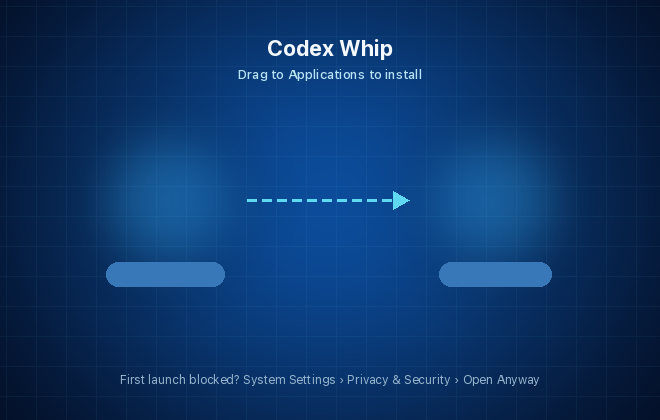
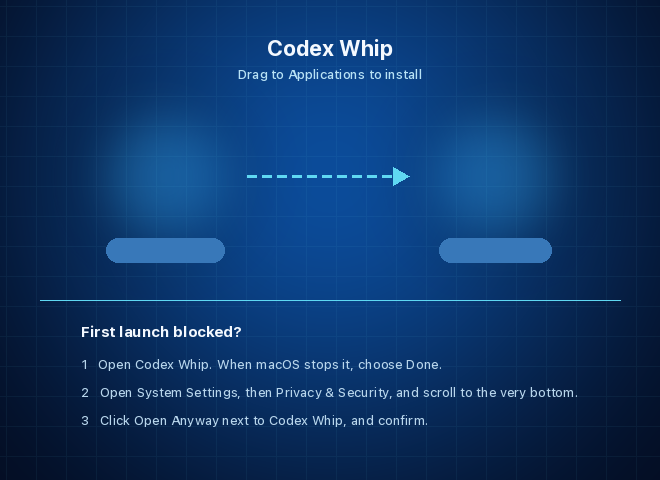
Whip Sound and Automatic Updates start on, opening the app cracks the whip, and the installer spells out the three first-launch steps, as version 1.10.2

diff --git a/native/App.swift b/native/App.swift
@@ -567,6 +567,8 @@ private final class AppDelegate: NSObject, NSApplicationDelegate, NSMenuDelegate
         do {
             let defaults = try PreferencesStore.bundledDefaults()
             let store = try PreferencesStore(directory: helper.stateDirectory, defaults: defaults)
+            // Opening the app cracks the whip once when Whip Sound is on; quitting stays silent.
+            if !isolated, (try? store.read())?.soundEnabled == true { playLaunchCrack() }
             let preferences = PreferencesMenuController(store: store)
             preferences.onChange = { [weak self] in
                 self?.updateMenu()
@@ -596,6 +598,14 @@ private final class AppDelegate: NSObject, NSApplicationDelegate, NSMenuDelegate
         statusItem.button?.image = MenuBarIcon.whip(accessibilityDescription: appName)
         statusItem.button?.setAccessibilityLabel(appName)
         statusItem.menu = menu
+    }
+
+    private var launchCrack: NSSound?
+
+    private func playLaunchCrack() {
+        guard let url = Bundle.main.url(forResource: "Whip", withExtension: "wav") else { return }
+        launchCrack = NSSound(contentsOf: url, byReference: true)
+        launchCrack?.play()
     }
 
     @discardableResult

diff --git a/scripts/make_dmg_background.py b/scripts/make_dmg_background.py
@@ -1,8 +1,8 @@
 #!/usr/bin/env python3
 """Draw the installer window's background in the film's blueprint look, at 1x and 2x.
 
-The disk image opens to a 660 by 420 point window: the app on the left, Applications on the right,
-an arrow between them and the first-launch step at the bottom. Finder draws icon labels white in dark
+The disk image opens to a 660 by 480 point window: the app on the left, Applications on the right
+and an arrow between them, then the three first-launch steps people take themselves. Finder draws icon labels white in dark
 mode and black in light mode, so each label sits on a chip whose luminance gives both at least 4.5:1.
 The positions here must match ICONS in scripts/build_app.py. Needs Pillow and the macOS font SF.
 """
@@ -12,8 +12,9 @@ from pathlib import Path
 from PIL import Image, ImageDraw, ImageFilter, ImageFont
 
 ROOT = Path(__file__).resolve().parents[1]
-WIDTH, HEIGHT = 660, 420
-APP, APPLICATIONS, ICON_Y, LABEL_Y = 165, 495, 200, 274
+WIDTH, HEIGHT = 660, 480
+# Finder centers a label 74 points below its icon at this icon size.
+APP, APPLICATIONS, ICON_Y, LABEL = 165, 495, 176, 74
 CYAN = (95, 216, 242)
 SF = "/System/Library/Fonts/SFNS.ttf"
 
@@ -79,8 +80,17 @@ def draw(scale):
     # Label chips under both icons.
     chip = chip_color()
     for cx, width in ((APP, 118), (APPLICATIONS, 112)):
-        d.rounded_rectangle([s(cx - width / 2), s(LABEL_Y - 12), s(cx + width / 2), s(LABEL_Y + 12)], s(12), fill=chip)
-    centered("First launch blocked? System Settings › Privacy & Security › Open Anyway", 372, small, (150, 180, 205))
+        d.rounded_rectangle([s(cx - width / 2), s(ICON_Y + LABEL - 12), s(cx + width / 2), s(ICON_Y + LABEL + 12)], s(12), fill=chip)
+    # A hairline between installing and the first launch.
+    d.line([(s(40), s(300)), (s(WIDTH - 40), s(300))], fill=(*CYAN, 60), width=max(1, s(1)))
+    heading, step = font(s(15), 700), font(s(13), 450)
+    lines = ["1   Open Codex Whip. When macOS stops it, choose Done.",
+             "2   Open System Settings, then Privacy & Security, and scroll to the very bottom.",
+             "3   Click Open Anyway next to Codex Whip, and confirm."]
+    x = (WIDTH - max(d.textlength(line, font=step) for line in lines) / scale) / 2
+    d.text((s(x), s(322)), "First launch blocked?", font=heading, fill=(244, 249, 255))
+    for index, line in enumerate(lines):
+        d.text((s(x), s(356 + index * 28)), line, font=step, fill=(184, 214, 236))
     return card.convert("RGB")
 
 

diff --git a/scripts/build_app.py b/scripts/build_app.py
@@ -103,7 +103,7 @@ def main():
         "SUFeedURL": f"{sparkle.FEED_ROOT}/appcast-{architecture}.xml",
         "SUPublicEDKey": sparkle.PUBLIC_KEY,
         "SUEnableAutomaticChecks": True,
-        "SUAutomaticallyUpdate": False,
+        "SUAutomaticallyUpdate": True,
         "SUScheduledCheckInterval": 86400,
         "SUVerifyUpdateBeforeExtraction": True,
         "SURequireSignedFeed": True,
@@ -123,6 +123,7 @@ def main():
     run(["iconutil", "-c", "icns", iconset, "-o", contents / "Resources/AppIcon.icns"])
     shutil.copy2(ROOT / "LICENSE", contents / "Resources/LICENSE.txt")
     shutil.copy2(demo, contents / "Resources/Demo.mp4")
+    shutil.copy2(ROOT / "assets/sounds/whip.wav", contents / "Resources/Whip.wav")
     if (ROOT / "licenses").exists():
         shutil.copytree(ROOT / "licenses", contents / "Resources/ThirdPartyLicenses")
     shutil.copy2(sparkle_distribution / "LICENSE", contents / "Resources/ThirdPartyLicenses/Sparkle.txt")

diff --git a/scripts/dmg_settings.py b/scripts/dmg_settings.py
@@ -11,8 +11,8 @@ symlinks = {"Applications": "/Applications"}
 icon = defines["icon"]
 background = os.path.join(assets, "background.png")
 
-# The height includes the 28-point title bar, so the 420-point background shows whole.
-window_rect = ((200, 140), (660, 448))
+# The height includes the 28-point title bar, so the 480-point background shows whole.
+window_rect = ((200, 120), (660, 508))
 default_view = "icon-view"
 show_status_bar = False
 show_tab_view = False
@@ -24,8 +24,8 @@ arrange_by = None
 icon_size = 112
 text_size = 13
 icon_locations = {
-    os.path.basename(app): (165, 200),
-    "Applications": (495, 200),
+    os.path.basename(app): (165, 176),
+    "Applications": (495, 176),
     # Outside the window, for people who show hidden files in Finder.
     ".background.tiff": (900, 900),
     ".VolumeIcon.icns": (1000, 900),

diff --git a/tests/test_settings.py b/tests/test_settings.py
@@ -49,7 +49,7 @@ class SettingsTests(unittest.TestCase):
         self.assertFalse(self.directory.exists())
         self.assertEqual(helper.DEFAULT_SETTINGS["retry_seconds"], 180)
         self.assertEqual(helper.DEFAULT_SETTINGS["scan_seconds"], 300)
-        self.assertIs(helper.DEFAULT_SETTINGS["sound_enabled"], False)
+        self.assertIs(helper.DEFAULT_SETTINGS["sound_enabled"], True)
 
     def test_legacy_preferences_keep_custom_values_and_default_sound_off(self):
         self.directory.mkdir()

diff --git a/settings.py b/settings.py
@@ -10,7 +10,7 @@ import tempfile
 
 DEFAULT_MESSAGE = "Keep using the selected model. Continue the unfinished work."
 DEFAULT_SETTINGS = {"retry_seconds": 180, "scan_seconds": 300, "message": DEFAULT_MESSAGE,
-                    "sound_enabled": False}
+                    "sound_enabled": True}
 
 
 class SettingsError(ValueError):

diff --git a/codex_whip.py b/codex_whip.py
@@ -31,7 +31,7 @@ from settings import (DEFAULT_MESSAGE, DEFAULT_SETTINGS, ScanScheduler, Settings
 from whip_sound import RetrySound
 
 
-VERSION = "1.10.1"
+VERSION = "1.10.2"
 LABEL = "com.turushan.codex-whip"
 INTERVAL = DEFAULT_SETTINGS["retry_seconds"]
 SCAN_INTERVAL = DEFAULT_SETTINGS["scan_seconds"]
